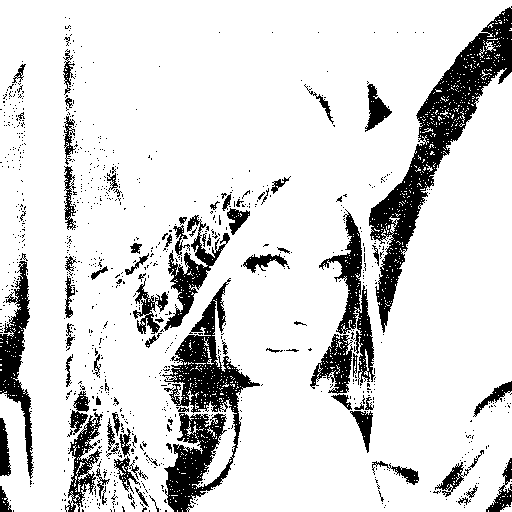
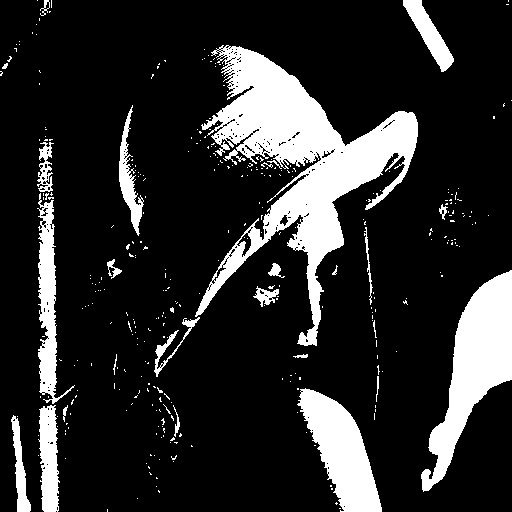
Niblack algorithm finished

diff --git a/ImageTresholdWindow.py b/ImageTresholdWindow.py
@@ -5,12 +5,12 @@ import numpy
 from PIL import Image
 import numpy as np
 from PIL.ImageQt import ImageQt
-
+import math
 from PyQt5 import QtCore, QtGui, QtWidgets
 from PyQt5.QtCore import QBuffer, QIODevice
 from PyQt5.QtWidgets import QInputDialog, QFileDialog, QLabel, QColorDialog, QApplication, QMessageBox
 from PyQt5.QtGui import QPixmap, QImage, QColor, QPalette, QPainter
-
+from skimage.filters import (threshold_niblack)
 class Ui_ImageProcessingWindow(object):
     clicked_pixel_x = None
     clicked_pixel_y = None
@@ -130,7 +130,7 @@ class Ui_ImageProcessingWindow(object):
         self.otsuTresholdButton.setGeometry(QtCore.QRect(810, 130, 135, 32))
         self.otsuTresholdButton.setObjectName("otsuTresholdButton")
         self.greyscaleButton = QtWidgets.QPushButton(self.centralwidget)
-        self.greyscaleButton.setGeometry(QtCore.QRect(910, 32, 135, 32))
+        self.greyscaleButton.setGeometry(QtCore.QRect(930, 32, 135, 32))
         self.greyscaleButton.setObjectName("greyscaleButton")
         self.stretchButton = QtWidgets.QPushButton(self.centralwidget)
         self.stretchButton.setGeometry(QtCore.QRect(650, 670, 135, 32))
@@ -138,6 +138,7 @@ class Ui_ImageProcessingWindow(object):
         self.equalizationButton = QtWidgets.QPushButton(self.centralwidget)
         self.equalizationButton.setGeometry(QtCore.QRect(650, 700, 135, 32))
         self.equalizationButton.setObjectName("equalizationButton")
+
 
         ImageProcessingWindow.setCentralWidget(self.centralwidget)
         self.menubar = QtWidgets.QMenuBar(ImageProcessingWindow)
@@ -207,9 +208,9 @@ class Ui_ImageProcessingWindow(object):
 
         self.aRangeValue.setText("0")
         self.bRangeValue.setText("255")
-        self.tresholdValueText.setText("0")
-        self.kValueText.setText("0")
-        self.windowValueText.setText("0")
+        self.tresholdValueText.setText("150")
+        self.kValueText.setText("-0.5")
+        self.windowValueText.setText("3")
         my_regex = QtCore.QRegExp("([0-9]|[1-8][0-9]|9[0-9]|1[0-9]{2}|2[0-4][0-9]|25[0-5])")
         my_validator = QtGui.QRegExpValidator(my_regex, self.aRangeValue)
         self.aRangeValue.setValidator(my_validator)
@@ -221,45 +222,37 @@ class Ui_ImageProcessingWindow(object):
 
     def niblack_threshold(self):
         window_val = int(self.windowValueText.text())
-        k_val = int(self.kValueText.text())
+        k_val = float(self.kValueText.text())
 
         self.turn_greyscale()
         img = Image.open("Threshold_img/greyscale.jpg", "r")
-        pix_val = list(img.getdata())
         image_matrix = numpy.array(img)
-        # print("{} r and  {} c ".format(image_matrix.shape[0], image_matrix.shape[1]))
 
-        # x = np.ones((3,3))
         pad_w = int(window_val / 2)
-        x = np.pad(image_matrix, pad_width=pad_w, mode="constant", constant_values=-5)
-        print(x)
-        window = 3
-        k_st = 0.8
-        print(pad_w)
 
+        x = np.pad(image_matrix, pad_width=pad_w, mode="constant", constant_values=0)
+        counter_mask = window_val * window_val
         k_counter = 0
         l_counter = 0
 
-        for i in range(pad_w,len(x)-pad_w):
-            for j in range(pad_w,len(x[0])-pad_w):
+        for i in range(pad_w, len(x) - pad_w):
+            for j in range(pad_w, len(x[0]) - pad_w):
                 avarage = 0
                 std_div = 0
-                counter_mask = 0
                 sum = 0
                 for k in range(window_val):
                     for l in range(window_val):
-                        if x[k+k_counter][l+l_counter] >= 0:
-                            sum += x[k+k_counter][l+l_counter]
-                            counter_mask += 1
+                        sum += x[k + k_counter][l + l_counter]
+
+
                 avarage = sum / counter_mask
                 sum = 0
                 for k in range(window_val):
                     for l in range(window_val):
-                        if x[k + k_counter][l + l_counter] >= 0:
-                            sum += pow(x[k + k_counter][l + l_counter] - avarage,2)
+                        sum += pow(x[k + k_counter][l + l_counter] - avarage, 2)
 
-                std_div = sum / counter_mask
-                threshold = int(avarage + (k_st * std_div))
+                std_div = math.sqrt(sum / counter_mask)
+                threshold = avarage + (k_val * std_div)
 
                 if x[i][j] < threshold:
                     x[i][j] = 0
@@ -269,13 +262,102 @@ class Ui_ImageProcessingWindow(object):
             k_counter += 1
             l_counter = 0
 
-        img = Image.fromarray(x, 'L')
-        img.show()
+        threshold_array_sl = x[pad_w:x.shape[0]-pad_w, pad_w:x.shape[1]-pad_w]
+        img_tr = Image.fromarray(threshold_array_sl, 'L')
+        img_tr.save("Threshold_img/niblack_threshold.png")
+        print("Saved image.")
+
+        # save in folder
+        pix = QtGui.QPixmap("Threshold_img/niblack_threshold.png")
+        self.photo.setGeometry(QtCore.QRect(0, 0, 800, 620))
+        scaled_pixmap = pix.scaled(800, 620)
+        self.photo.setPixmap(scaled_pixmap)
+        self.sizeBox.setCurrentIndex(3)
+        self.sizeBox.hide()
+        self.sizeBox.show()
+        self.photo.hide()
+        self.photo.show()
+        # plot
+        plt.subplot(2, 1, 1)
+        plt.title('Before niblack threshold', size=16, y=1.12)
+        plt.imshow(img, cmap='gray', vmin=0, vmax=255)
+
+        plt.subplot(2, 1, 2)
+        plt.title('After niblack threshold', size=16, y=1.12)
+        plt.imshow(img_tr, cmap='gray', vmin=0, vmax=255)
+
+        plt.tight_layout()
+        plt.show()
 
 
+    def niblack_v2(self):
+        #pioterowa
+        window_val = int(self.windowValueText.text())
+        k_val = float(self.kValueText.text())
 
+        self.turn_greyscale()
+        img = Image.open("Threshold_img/greyscale.jpg", "r")
+        image_matrix = numpy.array(img)
+        pad_w = int(window_val / 2)
+        counter_mask = window_val * window_val
 
+        threshold_array = np.zeros((image_matrix.shape[0], image_matrix.shape[1]))
 
+        for i in range(image_matrix.shape[0]):
+            for j in range(image_matrix.shape[1]):
+                avarage = 0
+                std_div = 0
+                sum = 0
+                try:
+                    for k in range(-1 * pad_w, pad_w + 1):
+                        for l in range(-1 * pad_w, pad_w + 1):
+                            sum += image_matrix[i + k, j + l]
+                except:
+                    sum += 0
+
+                avarage = sum / counter_mask
+                var = 0
+                try:
+                    for k in range(window_val):
+                        for l in range(window_val):
+                            var += pow(image_matrix[i+k, j+l] - avarage, 2)
+                except:
+                    sum += pow(0-avarage, 2)
+
+                variance = var / counter_mask
+                std_div = np.sqrt(variance)
+                threshold = avarage + (k_val * std_div)
+
+                if image_matrix[i][j] < threshold:
+                    image_matrix[i][j] = 0
+                elif image_matrix[i][j] >= threshold:
+                    image_matrix[i][j] = 255
+
+        img_tr = Image.fromarray(image_matrix, 'L')
+        img_tr.save("Threshold_img/niblack_threshold.png")
+        print("Saved image.")
+
+        # save in folder
+        pix = QtGui.QPixmap("Threshold_img/niblack_threshold.png")
+        self.photo.setGeometry(QtCore.QRect(0, 0, 800, 620))
+        scaled_pixmap = pix.scaled(800, 620)
+        self.photo.setPixmap(scaled_pixmap)
+        self.sizeBox.setCurrentIndex(3)
+        self.sizeBox.hide()
+        self.sizeBox.show()
+        self.photo.hide()
+        self.photo.show()
+        # plot
+        plt.subplot(2, 1, 1)
+        plt.title('Before niblack threshold', size=16, y=1.12)
+        plt.imshow(img, cmap='gray', vmin=0, vmax=255)
+
+        plt.subplot(2, 1, 2)
+        plt.title('After niblack threshold', size=16, y=1.12)
+        plt.imshow(img_tr, cmap='gray', vmin=0, vmax=255)
+
+        plt.tight_layout()
+        plt.show()
 
 
 
